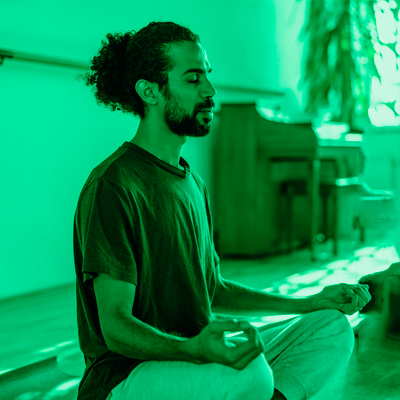
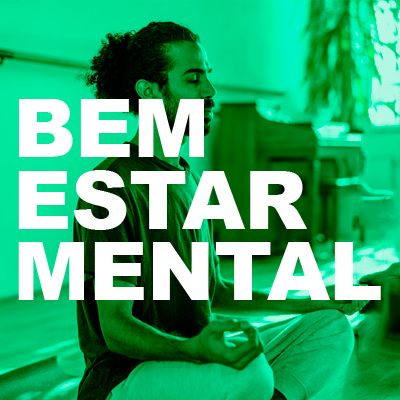
imgs_update_benefits

diff --git a/src/components/Benefits.js b/src/components/Benefits.js
@@ -1,11 +1,6 @@
 import React from 'react';
 import './Benefits.css';
-
-const benefitsData = [
-    { color: "#28a745", text: "Flexibilidade", image: require("../imgs/flexibilidade.png") },
-    { color: "#ffc107", text: "Força Física", image: require("../imgs/forca-fisica.png") }, // Amarelo
-    { color: "#6f42c1", text: "Bem-estar Mental", image: require("../imgs/bem-estar-mental.png") } // Roxo
-];
+import { benefitsData } from './benefitsData';
 
 const Benefits = () => {
     return (
@@ -20,7 +15,8 @@ const Benefits = () => {
                                 backgroundColor: benefit.color, 
                                 backgroundImage: benefit.image ? `url(${benefit.image})` : 'none',
                                 backgroundSize: 'cover',
-                                backgroundPosition: 'center'
+                                backgroundPosition: 'center',
+                                mixBlendMode: benefit.blendMode // Add blendMode property
                             }}
                         ></div>
                         <p>{benefit.text}</p>

diff --git a/src/components/benefitsData.js b/src/components/benefitsData.js
@@ -1,0 +1,5 @@
+export const benefitsData = [
+    { color: "rgba(40, 167, 69, 0.5)", text: "Flexibilidade", image: require("../imgs/flexibilidade.png"), blendMode: "multiply" },
+    { color: "rgba(0, 123, 255, 0.5)", text: "Força Física", image: require("../imgs/forca-fisica.png"), blendMode: "multiply" },
+    { color: "rgba(218, 65, 99, 0.5)", text: "Bem-estar Mental", image: require("../imgs/bem-estar-mental.png"), blendMode: "multiply" }
+];
